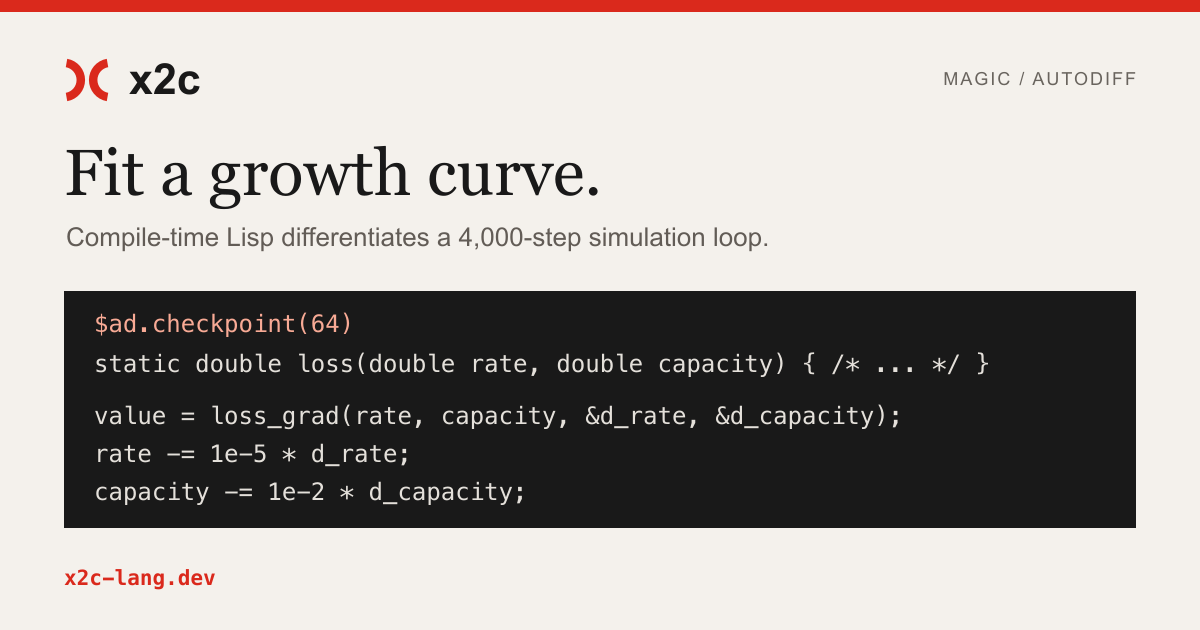
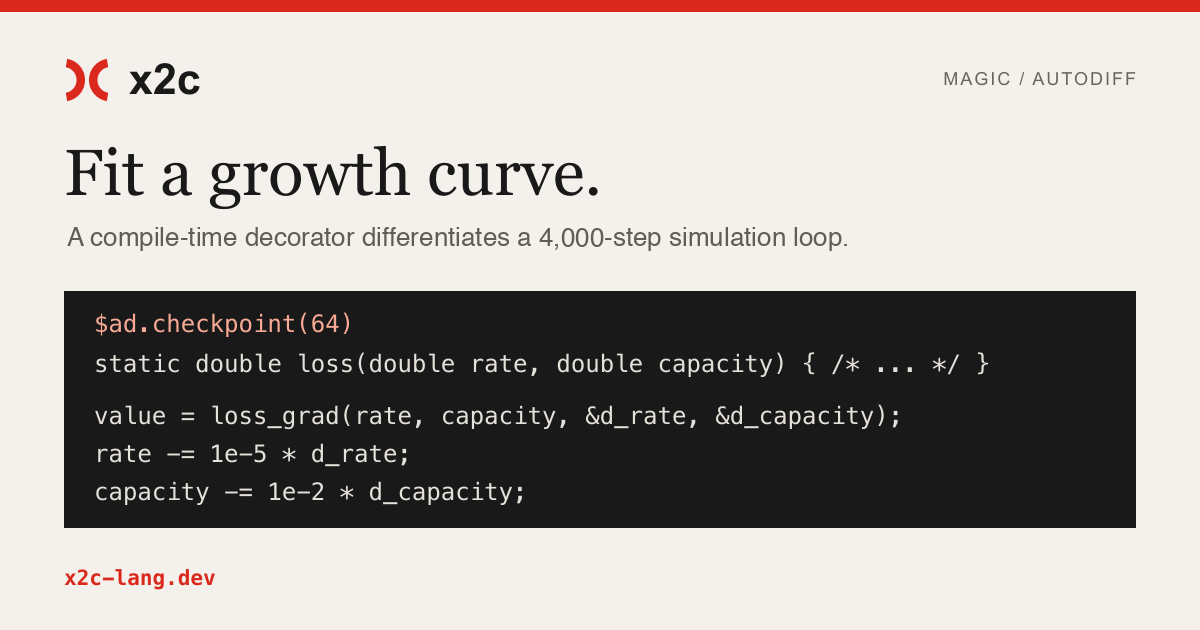
correct launch copy and write public release notes body

Changed region(s): [[0.0308, 0.3619, 0.7092, 0.3921]]

diff --git a/tools/release-candidate.py b/tools/release-candidate.py
@@ -32,6 +32,18 @@ BUNDLES = {**{package: tuple(PLATFORMS) for package in
 REPOSITORIES = {'staging': 'gwf/x2c-staging', 'production': 'gwf/x2c'}
 SITES = {'staging': 'https://staging.x2c-lang.dev',
          'production': 'https://x2c-lang.dev'}
+PRODUCTION_NOTES = """\
+Install this release:
+
+```sh
+curl -fsSL {site}/install.sh | sh -s -- --version {version}
+```
+
+The [release notes]({site}/docs/reference/release-notes.html) list what changed
+and how to upgrade. The [installation guide]({site}/docs/guide/installation.html)
+lists supported platforms.
+
+"""
 
 
 def run(*args, **kwargs):
@@ -369,9 +381,12 @@ def publish(args):
                                '--json', 'tagName'], capture_output=True, text=True)
     if existing.returncode:
         title = tag if args.destination == 'staging' else 'x2c ' + manifest['version']
+        notes = f"Source gwf/x2c@{manifest['source_sha']}; candidate {manifest['identity']}."
+        if args.destination == 'production':
+            notes = PRODUCTION_NOTES.format(site=SITES['production'],
+                                            version=manifest['version']) + notes
         command = ['gh', 'release', 'create', tag, '--repo', args.repository,
-                   '--draft', '--title', title, '--notes',
-                   f"Source gwf/x2c@{manifest['source_sha']}; candidate {manifest['identity']}."]
+                   '--draft', '--title', title, '--notes', notes]
         if args.destination == 'staging':
             command.append('--prerelease')
         else:

diff --git a/tools/test-release-candidate.py b/tools/test-release-candidate.py
@@ -231,12 +231,17 @@ class Candidates(unittest.TestCase):
         create = self.created_release('production', 'gwf/x2c')
         self.assertEqual(create[3], 'v1.2.3')
         self.assertEqual(create[create.index('--title') + 1], 'x2c 1.2.3')
+        notes = create[create.index('--notes') + 1]
+        self.assertIn('https://x2c-lang.dev/docs/reference/release-notes.html', notes)
+        self.assertIn('install.sh | sh -s -- --version 1.2.3', notes)
+        self.assertIn('Source gwf/x2c@', notes)
 
     def test_staging_release_is_titled_with_its_tag(self):
         create = self.created_release('staging', 'gwf/x2c-staging')
         tag = self.manifest['identity']
         self.assertEqual(create[3], tag)
         self.assertEqual(create[create.index('--title') + 1], tag)
+        self.assertTrue(create[create.index('--notes') + 1].startswith('Source gwf/x2c@'))
 
 
 if __name__ == '__main__':

diff --git a/README.md b/README.md
@@ -90,6 +90,10 @@ hook needs Python 3. To remove it, delete the `core.hooksPath` entry from
   networking, parsing, and other native libraries.
 - [Command-line reference](docs/src/reference/cli.md): compilation, projects,
   scripts, inspection, and build options. `./x2c --help` lists commands.
+- [Editor support](docs/src/reference/cli.md#editors): the
+  [VS Code extension](https://marketplace.visualstudio.com/items?itemName=x2c-lang.x2c-syntax)
+  highlights x2c source and starts the language server. Other editors start
+  `x2c lsp` themselves.
 - [Benchmarks Game suite](examples/shootout/README.md): official problems with
   idiomatic and tuned x2c, plus contributed C, Python, Rust, C++, Go, and
   Java references. See the

diff --git a/docs/src/guide/installation.md b/docs/src/guide/installation.md
@@ -136,6 +136,15 @@ debug information. [Source mapping](../reference/cli.md#source-mapping) gives
 the location rules. To use a C library through a package, see
 [packages](packages.md).
 
+## Set up an editor
+
+For VS Code, install the
+[x2c extension](https://marketplace.visualstudio.com/items?itemName=x2c-lang.x2c-syntax).
+It highlights x2c source and starts the language server, which reports
+compiler diagnostics and supplies definitions, hover, completion, and rename.
+Any other editor with a Language Server Protocol client can start `x2c lsp`;
+[Editors](../reference/cli.md#editors) gives the configuration.
+
 ## The x2c home
 
 An installed prefix and a source checkout share one layout, the x2c home:

diff --git a/site/src/content/home.md b/site/src/content/home.md
@@ -19,7 +19,7 @@ All of which makes x2c sound like a language with no values. It has three:
 *love*, *power*, and *magic*, and we know how that sounds.
 Nonetheless, see the panel for the values translated into code.
 
-Under the hood, x2c is a strict superset of C that compiles to C, so everything
+Under the hood, x2c is a superset of C that compiles to C, so everything
 stays close to native representations and works with the entire C ecosystem. If
 you know C, you already write x2c.
 

diff --git a/site/src/content/examples/literate-lisp.md b/site/src/content/examples/literate-lisp.md
@@ -4,7 +4,7 @@ navTitle: Literate Lisp
 order: 0
 slide: runtime-lisp
 customPage: true
-title: Build a Lisp in 1,000 lines.
+title: Build a Lisp in about 1,000 lines.
 description: Build a language from values, functions, and a recursive evaluator.
 guide: docs/internals/reference-lisp.html
 source: examples/programs/literate-lisp.x
